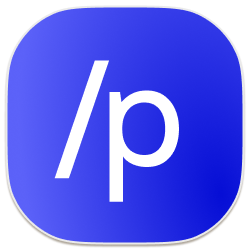
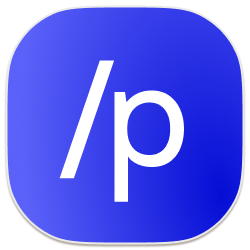
release: Replace command (#2)
* chore: update icons

* feat: add replace command

* docs: update readme

* docs: tweak readme

* fix: improve arguments parsing

* docs: optional params

Changed region(s): [[0.224, 0.224, 0.756, 0.812]]

diff --git a/transform.js b/transform.js
@@ -48,6 +48,10 @@ function run(argv) {
     return (words || []).join(replacement);
   };
 
+  const toReplaced = (string = '', substring, replacement = '') => {
+    return string.replaceAll(substring, replacement);
+  };
+
   const noArgCommands = {
     l: {
       name: 'Lowercase',
@@ -81,6 +85,15 @@ function run(argv) {
       hint: `Takes one argument: ${COMMAND_SEPARATOR}S '<replacement>'`,
       transform: toSlug,
       args: 1,
+      pattern: 'S(?: \'.*?\'| \".*?\")?',
+    },
+    R: {
+      name: 'Replace',
+      hint: `Takes two arguments: ${COMMAND_SEPARATOR}R '<substring>' '<replacement>'`,
+      transform: toReplaced,
+      args: 2,
+      pattern: 'R (?:\'.*?\'|\".*?\")(?: \'.*?\'| \".*?\")?',
+      isHidden: true,
     },
   };
 
@@ -89,11 +102,10 @@ function run(argv) {
     ...argCommands,
   };
 
-  const argCommandsRx = Object.entries(argCommands).map(([key, description]) => {
-    const argRx = '(?:\'[^\'\"]*\'|\"[^\'\"]*\")';
-    return `${key} ${argRx.repeat(description.args)}`;
-  })
-  const AVAILABLE_COMMANDS = new RegExp(`[${Object.keys(noArgCommands).join('')}]{1}|${argCommandsRx.join('|')}`, 'g');
+  const AVAILABLE_COMMANDS = new RegExp(
+    `[${Object.keys(noArgCommands).join('')}]{1}|${Object.values(argCommands).map(({ pattern }) => pattern).join('|')}`,
+    'g'
+  );
 
   const runTransforms = (input, commandsSequence) => {
     if (Array.isArray(commandsSequence) && commandsSequence.length > 0) {
@@ -167,6 +179,10 @@ function run(argv) {
     }
   } else {
     items = Object.values(allCommands).map((command) => {
+      if (command.isHidden) {
+        return {};
+      }
+
       try {
         const transformed = command.transform(string);
 

diff --git a/README.md b/README.md
@@ -5,7 +5,7 @@
 [Alfred](https://www.alfredapp.com/) workflow with handy string transforming tools.
 
 ## Usage
-Use keyword `string` to init String Multitool. Provide string as an argument and select needed transformation from list.
+Use keyword `string` (or custom keyword) to init String Multitool. Provide string as an argument and select needed transformation from list.
 
 ## Chaining transformations
 You can also chain transformations by providing transformation commands after `/` char.
@@ -22,11 +22,6 @@ someStringThatWeNeedToUseAsVariableName
 ```
 
 ## Commands
-### Pascalcase `/p`
-Capitalize each word and merge.
-
-`The quick brown fox jumps over the lazy dog /p` → `TheQuickBrownFoxJumpsOverTheLazyDog`
-
 ### Lowercase `/l`
 Lowercase all chars.
 
@@ -36,6 +31,11 @@ Lowercase all chars.
 Uppercase all chars.
 
 `Can you hear me Major Tom? /u` → `CAN YOU HEAR ME MAJOR TOM?`
+
+### Pascalcase `/p`
+Convert string to pascalcase and remove all non-word and non-digit chars.
+
+`The quick brown fox jumps over the lazy dog /p` → `TheQuickBrownFoxJumpsOverTheLazyDog`
 
 ### Camelcase `/c`
 Convert string to camelcase and remove all non-word and non-digit chars.
@@ -52,7 +52,12 @@ Remove space-like characters from start and end of the string.
 
 `   Well, something is happening...  /t` → `Well, something is happening...`
 
-### Slugify `/S 'replacer'`
-Remove all non-word and non-digit chars and merge words with specified *replacer* string.
+### Slugify `/S '<replacement (optional)>'`
+Remove all non-word and non-digit chars and merge words with specified *replacement* string.
 
 `http://foo.bar/baz/brrr /S '+'` → `http+foo+bar+baz+brrr`
+
+### Replace `/R '<substring>' '<replacement (optional)>'`
+Replace all *substring* occurences with *replacement* string.
+
+`I'm Will, Will's son /R 'Will' 'Bill'` → `I'm Bill, Bill's son`
